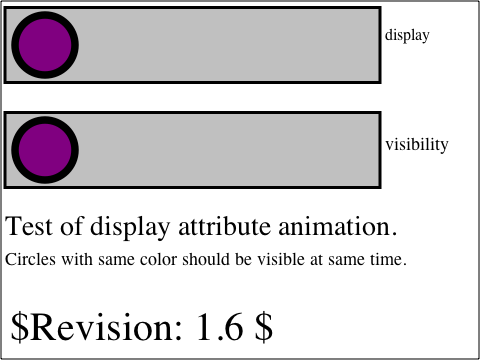
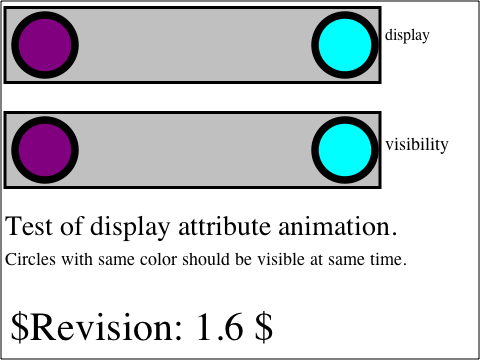
2011-06-21  Dirk Schulze  <krit@webkit.org>
Reviewed by Rob Buis.

        SVG no fallback to discrete animation on attribute 'values' for SVGString
        https://bugs.webkit.org/show_bug.cgi?id=57085

        Check for AnimatedString, AnimatedBoolean and AnimatedEnumeration on 'values' calculation.
        If the property type matches one of the above values, fallback to discrete animation.

        The patch also changes behavior for String animation. The animation code doesn't handle inheritance
        for strings anymore. This is done by the CSS parser itself now, we just need to handle inheritance
        on animations that interpolate between two values like for calcMode="linear".

        Test: svg/animations/svgstring-animation-fallback-to-discrete.html

        * svg/SVGAnimateElement.cpp:
        (WebCore::SVGAnimateElement::calculateAnimatedValue):
        * svg/SVGAnimateElement.h:
        * svg/SVGAnimationElement.cpp:
        (WebCore::SVGAnimationElement::currentValuesForValuesAnimation):
2011-06-21  Dirk Schulze  <krit@webkit.org>

        Reviewed by Rob Buis.

        SVG no fallback to discrete animation on attribute 'values' for SVGString
        https://bugs.webkit.org/show_bug.cgi?id=57085

        Added new test to check fallback to discrete animations on string values. One
        test needed rebaseline. Even if we do not pass the test it is still a progression.

        * platform/mac/svg/W3C-SVG-1.1/animate-elem-31-t-expected.png:
[…]

Changed region(s): [[0.625, 0.3056, 0.8125, 0.5194], [0.625, 0.0306, 0.8125, 0.2139]]

diff --git a/LayoutTests/svg/animations/script-tests/svgstring-animation-fallback-to-discrete.js b/LayoutTests/svg/animations/script-tests/svgstring-animation-fallback-to-discrete.js
@@ -1,0 +1,52 @@
+description("Tests fallback to calcMode='discrete' on animation of SVGString with 'values'.");
+createSVGTestCase();
+
+// Setup test document
+var rect = createSVGElement("rect");
+rect.setAttribute("id", "rect");
+rect.setAttribute("width", "100");
+rect.setAttribute("height", "100");
+rect.setAttribute("fill", "green");
+rect.setAttribute("onclick", "executeTest()");
+
+var animate = createSVGElement("animate");
+animate.setAttribute("id", "animation");
+animate.setAttribute("attributeName", "visibility");
+animate.setAttribute("begin", "click");
+animate.setAttribute("dur", "6s");
+animate.setAttribute("calcMode", "linear");
+animate.setAttribute("values", "visible ; hidden ; visible");
+rect.appendChild(animate);
+rootSVGElement.appendChild(rect);
+
+var computedStyle = rect.ownerDocument.defaultView.getComputedStyle(rect);
+
+// Setup animation test
+function sample1() {
+    // Check initial/end conditions
+    shouldBe("rect.style.visibility", "'visible'");
+}
+
+function sample2() {
+    shouldBe("rect.style.visibility", "'hidden'");
+}
+
+function sample3() {
+    shouldBe("rect.style.visibility", "'visible'");
+}
+
+function executeTest() {
+    const expectedValues = [
+        // [animationId, time, elementId, sampleCallback]
+        ["animation", 1.9999, "rect", sample1],
+        ["animation", 2,      "rect", sample2],
+        ["animation", 3.9999, "rect", sample3],
+        ["animation", 4,      "rect", sample1]
+    ];
+
+    runAnimationTest(expectedValues);
+}
+
+// Begin test async
+window.setTimeout("triggerUpdate(50, 30)", 0);
+var successfullyParsed = true;

diff --git a/LayoutTests/svg/animations/svgstring-animation-fallback-to-discrete.html b/LayoutTests/svg/animations/svgstring-animation-fallback-to-discrete.html
@@ -1,0 +1,15 @@
+<!DOCTYPE HTML PUBLIC "-//IETF//DTD HTML//EN">
+<html>
+<head>
+<link rel="stylesheet" href="../../fast/js/resources/js-test-style.css">
+<script src="../../fast/js/resources/js-test-pre.js"></script>
+<script src="../dynamic-updates/resources/SVGTestCase.js"></script>
+<script src="resources/SVGAnimationTestCase.js"></script>
+</head>
+<body>
+<h1>SVG 1.1 dynamic animation tests</h1>
+<p id="description"></p>
+<div id="console"></div>
+<script src="script-tests/svgstring-animation-fallback-to-discrete.js"></script>
+</body>
+</html>

diff --git a/Source/WebCore/svg/SVGAnimationElement.cpp b/Source/WebCore/svg/SVGAnimationElement.cpp
@@ -481,6 +481,16 @@ void SVGAnimationElement::currentValuesForValuesAnimation(float percent, float& 
     ASSERT(valuesCount > 1);
     
     CalcMode calcMode = this->calcMode();
+    if (hasTagName(SVGNames::animateTag) || hasTagName(SVGNames::animateColorTag)) {
+        const SVGAnimateElement* animateElement = static_cast<const SVGAnimateElement*>(this);
+        AnimatedAttributeType attributeType = animateElement->determineAnimatedAttributeType(targetElement());
+        // Fall back to discrete animations for Strings.
+        if (attributeType == AnimatedBoolean
+            || attributeType == AnimatedEnumeration
+            || attributeType == AnimatedPreserveAspectRatio
+            || attributeType == AnimatedString)
+            calcMode = CalcModeDiscrete;
+    }
     if (!m_keyPoints.isEmpty() && calcMode != CalcModePaced)
         return currentValuesFromKeyPoints(percent, effectivePercent, from, to);
     

diff --git a/Source/WebCore/svg/SVGAnimateElement.h b/Source/WebCore/svg/SVGAnimateElement.h
@@ -44,6 +44,8 @@ public:
     
     static void adjustForCurrentColor(SVGElement* targetElement, Color&);
     void adjustForInheritance(SVGElement* targetElement, const QualifiedName&, String& value);
+    
+    AnimatedAttributeType determineAnimatedAttributeType(SVGElement*) const;
 
 protected:
     SVGAnimateElement(const QualifiedName&, Document*);
@@ -57,7 +59,7 @@ protected:
 
 private:
     SVGAnimatedTypeAnimator* ensureAnimator();
-    
+
     // If we have 'currentColor' or 'inherit' as animation value, we need to grab the value during the animation
     // since the value can be animated itself.
     enum AnimatedPropertyValueType {
@@ -67,7 +69,6 @@ private:
     };
     
     virtual bool hasValidAttributeType() const;
-    AnimatedAttributeType determineAnimatedAttributeType(SVGElement*) const;
     AnimatedAttributeType m_animatedAttributeType;
 
     AnimatedPropertyValueType m_fromPropertyValueType;

diff --git a/Source/WebCore/svg/SVGAnimateElement.cpp b/Source/WebCore/svg/SVGAnimateElement.cpp
@@ -262,12 +262,6 @@ void SVGAnimateElement::calculateAnimatedValue(float percentage, unsigned repeat
         break;
     }
     ASSERT(animationMode == FromToAnimation || animationMode == ToAnimation || animationMode == ValuesAnimation);
-    // Replace 'currentColor' / 'inherit' by their computed property values.
-    if (m_fromPropertyValueType == InheritValue)
-        adjustForInheritance(targetElement, attributeName(), m_fromString);
-    if (m_toPropertyValueType == InheritValue)
-        adjustForInheritance(targetElement, attributeName(), m_toString);
-
     if ((animationMode == FromToAnimation && percentage > 0.5f) || animationMode == ToAnimation || percentage == 1)
         results->m_animatedString = m_toString;
     else
